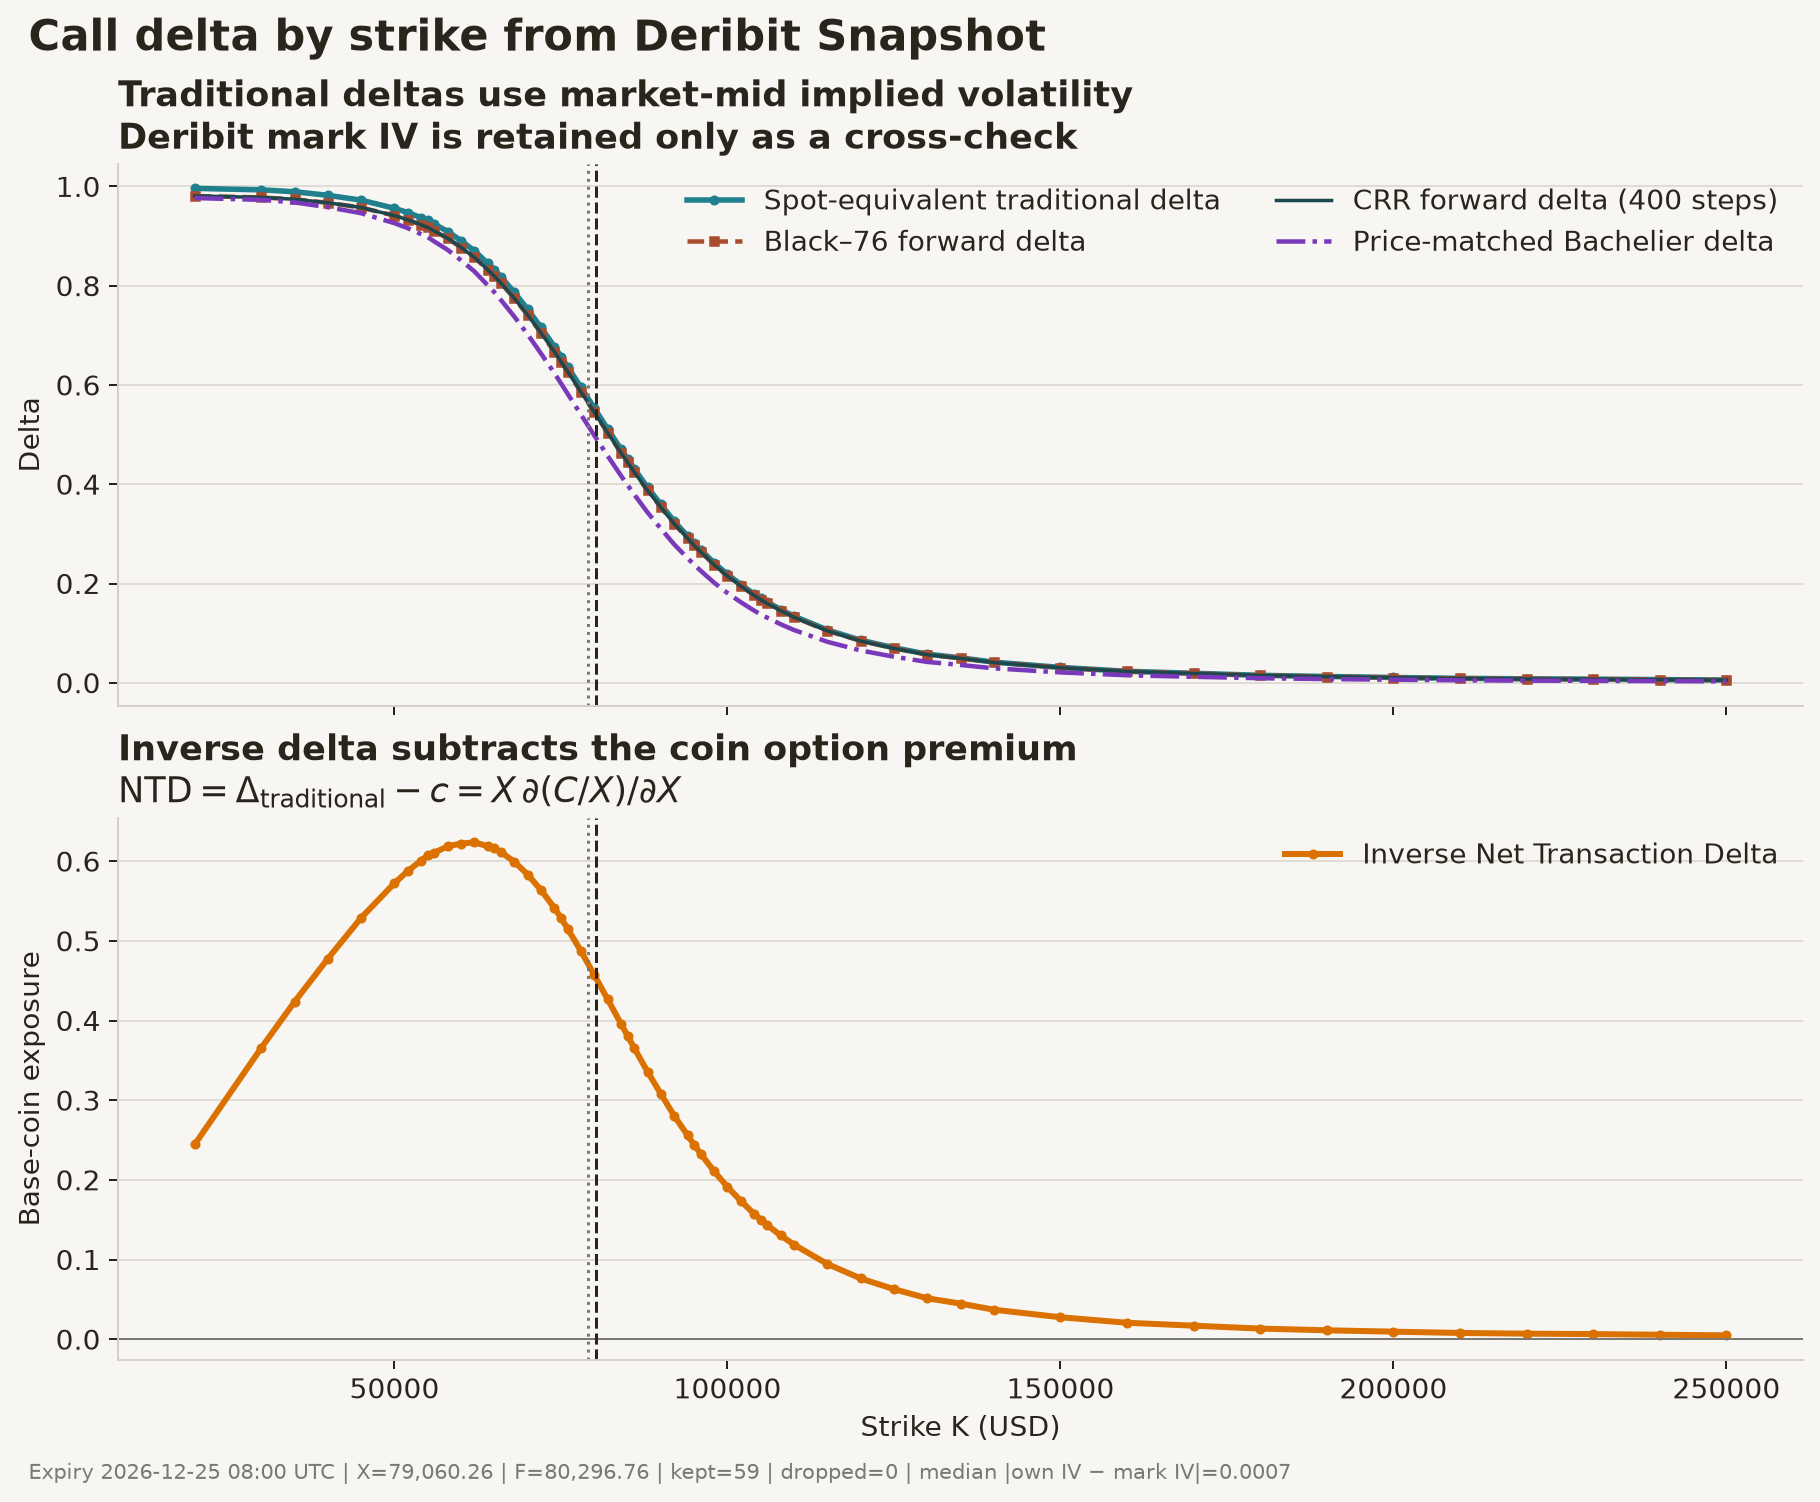
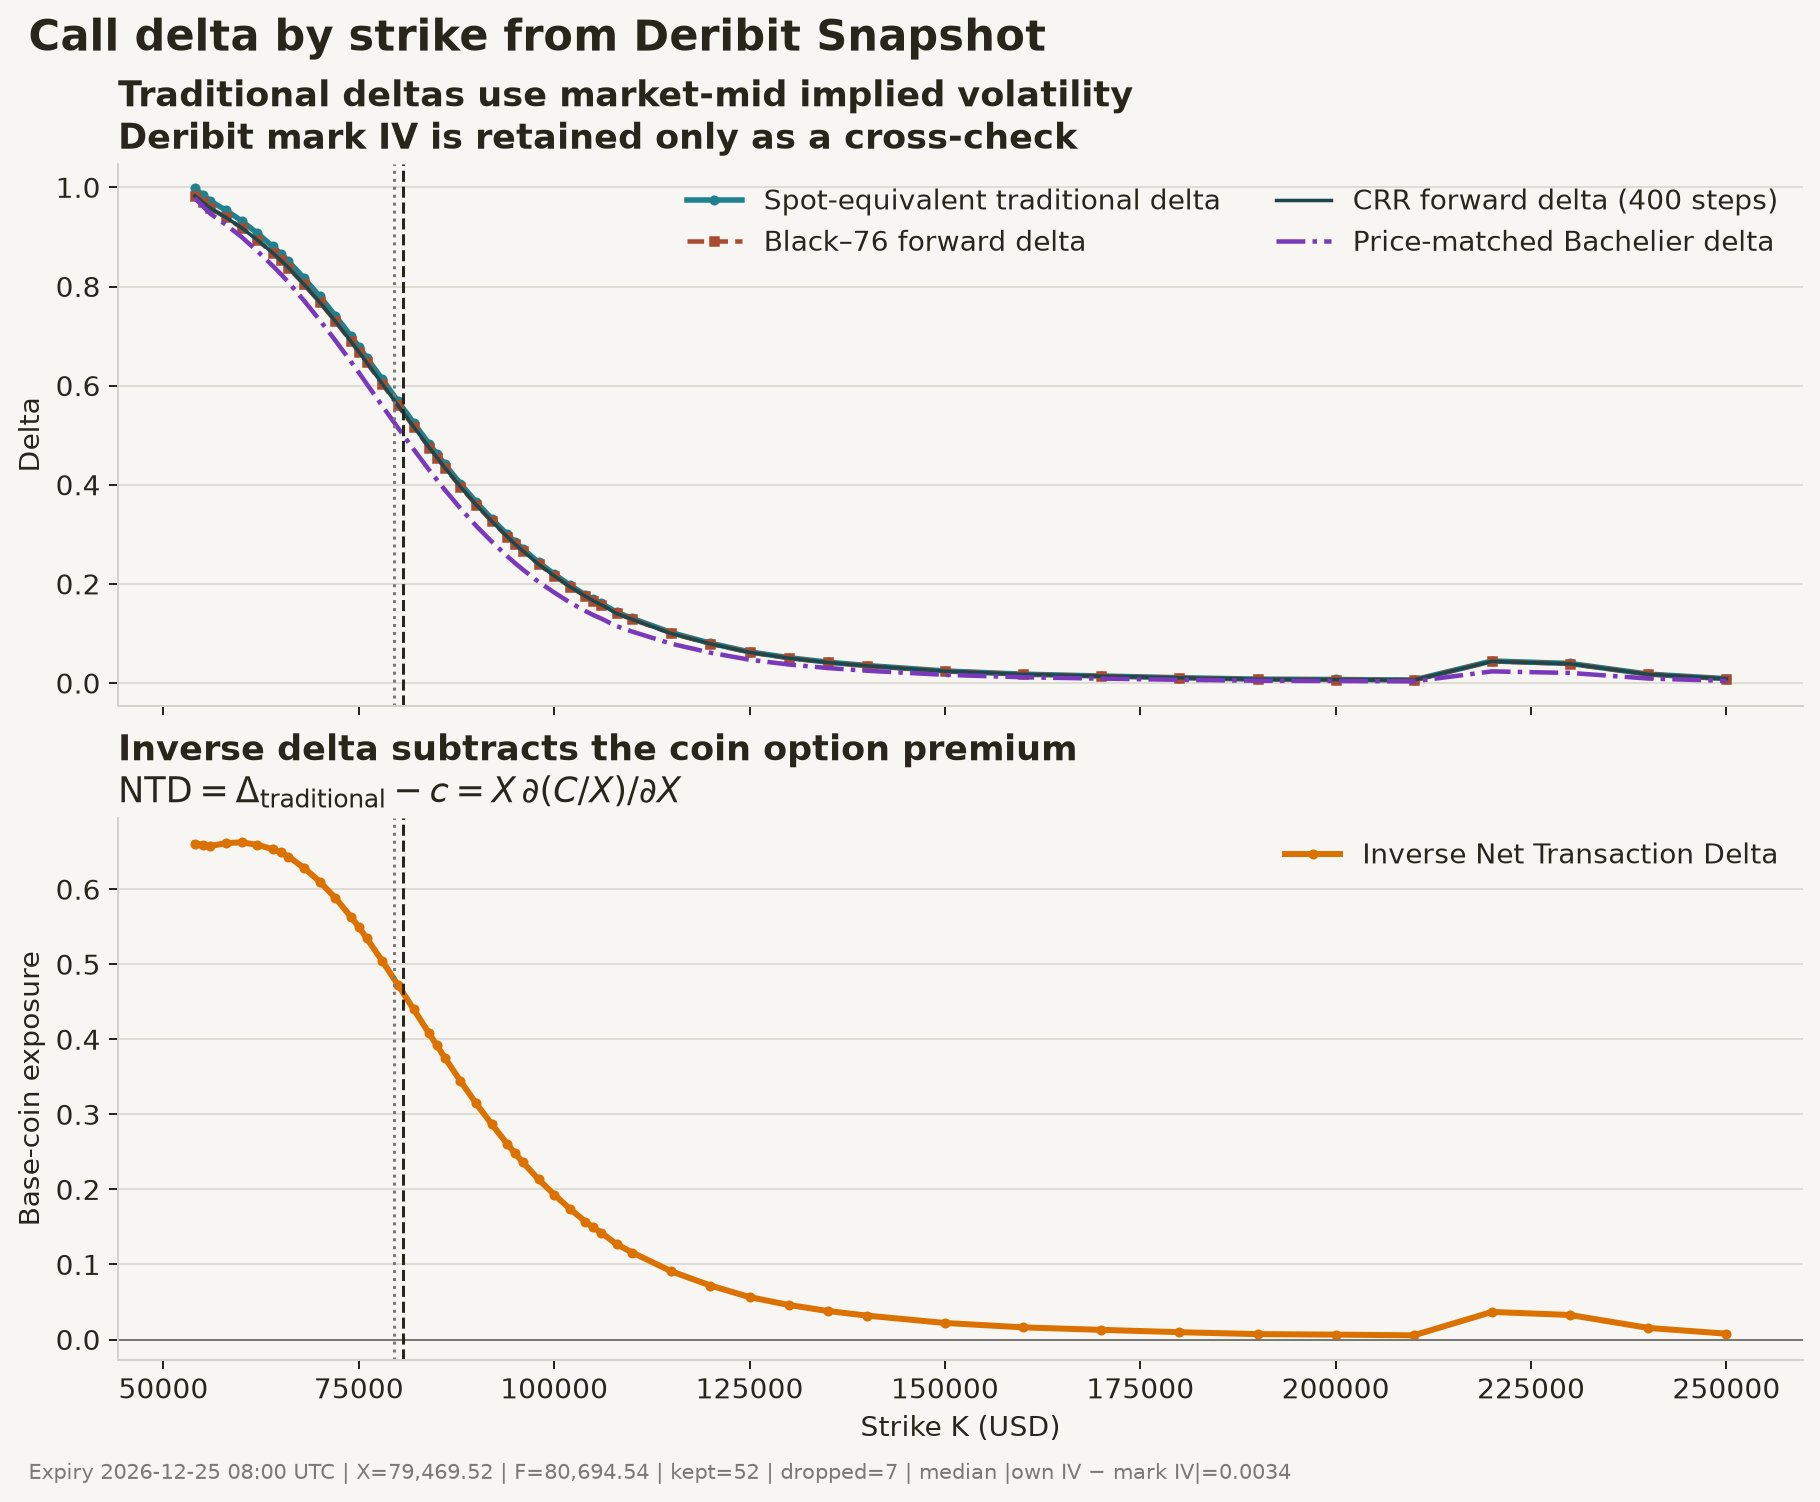
bug fix

diff --git a/deribit/hygiene.py b/deribit/hygiene.py
@@ -1,3 +1,4 @@
+import math
 from dataclasses import dataclass
 from enum import Enum
 
@@ -8,6 +9,8 @@ from .forwards import (OptionPair,ParityPoint,matched_size,inverse_forward_mid, 
 class IssueCode(str, Enum):
     MISSING_BID = "missing_bid"
     MISSING_ASK = "missing_ask"
+    NON_FINITE_BID = "non_finite_bid"
+    NON_FINITE_ASK = "non_finite_ask"
     ZERO_BID = "zero_bid"
     NON_POSITIVE_ASK = "non_positive_ask"
     CROSSED_BOOK = "crossed_book"
@@ -68,6 +71,7 @@ def evaluate_leg(
 ) -> list[QuoteIssue]:
     issues: list[QuoteIssue] = []
 
+    # BID CHECKS
     if quote.bid_coin is None:
         issues.append(
             QuoteIssue(
@@ -78,9 +82,22 @@ def evaluate_leg(
                 frozenset(
                     {
                         Use.DIAGNOSTIC_MID,
-                        Use.SYNTHETIC_SELL
-                        if leg == "call"
-                        else Use.SYNTHETIC_BUY,
+                        Use.SYNTHETIC_SELL if leg == "call" else Use.SYNTHETIC_BUY,
+                    }
+                ),
+            )
+        )
+    elif not math.isfinite(quote.bid_coin):
+        issues.append(
+            QuoteIssue(
+                IssueCode.NON_FINITE_BID,
+                quote.instrument_name,
+                leg,
+                "bid is non-finite (NaN or Inf)",
+                frozenset(
+                    {
+                        Use.DIAGNOSTIC_MID,
+                        Use.SYNTHETIC_SELL if leg == "call" else Use.SYNTHETIC_BUY,
                     }
                 ),
             )
@@ -95,14 +112,13 @@ def evaluate_leg(
                 frozenset(
                     {
                         Use.DIAGNOSTIC_MID,
-                        Use.SYNTHETIC_SELL
-                        if leg == "call"
-                        else Use.SYNTHETIC_BUY,
+                        Use.SYNTHETIC_SELL if leg == "call" else Use.SYNTHETIC_BUY,
                     }
                 ),
             )
         )
 
+    # ASK CHECKS
     if quote.ask_coin is None:
         issues.append(
             QuoteIssue(
@@ -113,9 +129,22 @@ def evaluate_leg(
                 frozenset(
                     {
                         Use.DIAGNOSTIC_MID,
-                        Use.SYNTHETIC_BUY
-                        if leg == "call"
-                        else Use.SYNTHETIC_SELL,
+                        Use.SYNTHETIC_BUY if leg == "call" else Use.SYNTHETIC_SELL,
+                    }
+                ),
+            )
+        )
+    elif not math.isfinite(quote.ask_coin):
+        issues.append(
+            QuoteIssue(
+                IssueCode.NON_FINITE_ASK,
+                quote.instrument_name,
+                leg,
+                "ask is non-finite (NaN or Inf)",
+                frozenset(
+                    {
+                        Use.DIAGNOSTIC_MID,
+                        Use.SYNTHETIC_BUY if leg == "call" else Use.SYNTHETIC_SELL,
                     }
                 ),
             )
@@ -130,48 +159,42 @@ def evaluate_leg(
                 frozenset(
                     {
                         Use.DIAGNOSTIC_MID,
-                        Use.SYNTHETIC_BUY
-                        if leg == "call"
-                        else Use.SYNTHETIC_SELL,
+                        Use.SYNTHETIC_BUY if leg == "call" else Use.SYNTHETIC_SELL,
                     }
                 ),
             )
         )
 
+    # CROSSED & SPREAD CHECKS
     if (
         quote.bid_coin is not None
         and quote.ask_coin is not None
-        and quote.bid_coin > quote.ask_coin
+        and math.isfinite(quote.bid_coin)
+        and math.isfinite(quote.ask_coin)
     ):
-        issues.append(
-            QuoteIssue(
-                IssueCode.CROSSED_BOOK,
-                quote.instrument_name,
-                leg,
-                "bid exceeds ask",
-                frozenset(Use),
-            )
-        )
-
-    if (
-        quote.bid_coin is not None
-        and quote.ask_coin is not None
-        and 0.0 < quote.bid_coin <= quote.ask_coin
-    ):
-        midpoint = 0.5 * (
-            quote.bid_coin + quote.ask_coin
-        )
-        spread = quote.ask_coin - quote.bid_coin
-        if spread > midpoint:
+        if quote.bid_coin > quote.ask_coin:
             issues.append(
                 QuoteIssue(
-                    IssueCode.SPREAD_WIDER_THAN_MID,
+                    IssueCode.CROSSED_BOOK,
                     quote.instrument_name,
                     leg,
-                    "spread is wider than option midpoint",
-                    frozenset({Use.DIAGNOSTIC_MID}),
+                    "bid exceeds ask",
+                    frozenset(Use),
                 )
             )
+        elif 0.0 < quote.bid_coin <= quote.ask_coin:
+            midpoint = 0.5 * (quote.bid_coin + quote.ask_coin)
+            spread = quote.ask_coin - quote.bid_coin
+            if spread > midpoint:
+                issues.append(
+                    QuoteIssue(
+                        IssueCode.SPREAD_WIDER_THAN_MID,
+                        quote.instrument_name,
+                        leg,
+                        "spread is wider than option midpoint",
+                        frozenset({Use.DIAGNOSTIC_MID}),
+                    )
+                )
 
     return issues
 

diff --git a/tests/test_forwards.py b/tests/test_forwards.py
@@ -1,6 +1,7 @@
 import pytest
-from deribit.chain import OptionQuote, FutureQuote, futures_from_snapshot
+from deribit.chain import OptionQuote, FutureQuote, futures_from_snapshot, option_chain_from_snapshot
 from deribit.forwards import *
+from deribit.hygiene import evaluate_and_partition_pairs
 
 pytestmark = pytest.mark.forwards
 
@@ -511,3 +512,65 @@ def test_both_directions_crossing_is_reported_as_invalid_data():
 
     assert comparison.top_of_book_cross_direction == "both_directions_cross"
     assert comparison.status == BasisStatus.BOTH_DIRECTIONS_CROSS.value
+
+
+def test_forward_derivation_without_api_forward_or_mark_iv():
+    snapshot = {
+        "index": {
+            "received_at_ns": 1700000000000000000,
+            "payload": {"index_price": 75000.0},
+        },
+        "instruments": {
+            "received_at_ns": 1700000000000000000,
+            "payload": [
+                {
+                    "kind": "option",
+                    "instrument_name": "BTC-25DEC26-75000-C",
+                    "option_type": "call",
+                    "strike": 75000,
+                    "expiration_timestamp": 1798185600000,
+                    "settlement_currency": "BTC",
+                    "contract_size": 1.0,
+                },
+                {
+                    "kind": "option",
+                    "instrument_name": "BTC-25DEC26-75000-P",
+                    "option_type": "put",
+                    "strike": 75000,
+                    "expiration_timestamp": 1798185600000,
+                    "settlement_currency": "BTC",
+                    "contract_size": 1.0,
+                },
+            ],
+        },
+        "options": {
+            "received_at_ns": 1700000000000000000,
+            "payload": [
+                {
+                    "instrument_name": "BTC-25DEC26-75000-C",
+                    "underlying_index": "BTC-25DEC26",
+                    "underlying_price": None,  # Missing API forward
+                    "mark_iv": None,           # Missing Mark IV
+                    "bid_price": 0.10,
+                    "ask_price": 0.10,
+                },
+                {
+                    "instrument_name": "BTC-25DEC26-75000-P",
+                    "underlying_index": "BTC-25DEC26",
+                    "underlying_price": None,  # Missing API forward
+                    "mark_iv": None,           # Missing Mark IV
+                    "bid_price": 0.0375,
+                    "ask_price": 0.0375,
+                },
+            ],
+        },
+    }
+
+    chain = option_chain_from_snapshot(snapshot)
+    assert len(chain) == 2
+    pairs, issues = pair_calls_and_puts(chain)
+    assert len(pairs) == 1
+    diag, buy, sell, evaluated = evaluate_and_partition_pairs(pairs)
+    assert len(diag) == 1
+    expiry_fw = aggregate_expiry_forward(diag, buy, sell)
+    assert expiry_fw.implied_forward == pytest.approx(80000.0)

diff --git a/deribit/forwards.py b/deribit/forwards.py
@@ -69,6 +69,8 @@ class BasisStatus(str, Enum):
     MISSING_FUTURE = "missing_future"
     INVALID_FUTURE_MARK = "invalid_future_mark"
     CROSSED_FUTURE = "crossed_future"
+    INVALID_FUTURE_BOOK = "invalid_future_book"
+    PRICE_CROSS = "price_cross"
     BOTH_DIRECTIONS_CROSS = "both_directions_cross"
 
 def pair_calls_and_puts(
@@ -191,16 +193,25 @@ def inverse_forward_mid(pair: OptionPair) -> float | None:
 
     if call_mid is None or put_mid is None:
         return None
-
+    if not math.isfinite(call_mid) or not math.isfinite(put_mid):
+        return None
+    
     denom = 1.0 - call_mid + put_mid
-    if denom <= 0.0:
+    if denom <= 0.0 or not math.isfinite(denom):
         raise ValueError("Invalid inverse parity denominator")
     return pair.strike/denom
 
 #Independent execution sides
 ### assert synthetic_sell_forward <= forward_mid <= synthetic_buy_forward
 def synthetic_buy_forward(pair: OptionPair) -> float | None:
-    if pair.call.ask_coin is None or pair.put.bid_coin is None or pair.call.ask_coin <= 0.0 or pair.put.bid_coin <= 0.0:
+    if (
+        pair.call.ask_coin is None
+        or pair.put.bid_coin is None
+        or not math.isfinite(pair.call.ask_coin)
+        or not math.isfinite(pair.put.bid_coin)
+        or pair.call.ask_coin <= 0.0
+        or pair.put.bid_coin <= 0.0
+    ):
         return None
     denom = (
         1.0 - pair.call.ask_coin + pair.put.bid_coin
@@ -210,7 +221,14 @@ def synthetic_buy_forward(pair: OptionPair) -> float | None:
     return pair.strike/denom
 
 def synthetic_sell_forward(pair: OptionPair) -> float | None:
-    if pair.call.bid_coin is None or pair.put.ask_coin is None or pair.call.bid_coin <= 0.0 or pair.put.ask_coin <= 0.0:
+    if (
+        pair.call.bid_coin is None
+        or pair.put.ask_coin is None
+        or not math.isfinite(pair.call.bid_coin)
+        or not math.isfinite(pair.put.ask_coin)
+        or pair.call.bid_coin <= 0.0
+        or pair.put.ask_coin <= 0.0
+    ):
         return None
     denom = (
         1.0 - pair.call.bid_coin + pair.put.ask_coin

diff --git a/benchmarks/delta_strike_plot.py b/benchmarks/delta_strike_plot.py
@@ -282,11 +282,11 @@ def plot_delta_rows(
             )
             # Mark Forward Price
             axis.axvline(
-                first.forward, 
+                first.api_forward, 
                 color="#28251D", 
                 ls="--", 
                 lw=1.2, 
-                label=f"Forward F (${first.forward:,.0f})"
+                label=f"Forward F (${first.api_forward:,.0f})"
             )
             axis.grid(axis="y", color="#D4D1CA", lw=0.8, alpha=0.7)
             axis.grid(axis="x", visible=False)
@@ -314,7 +314,7 @@ def plot_delta_rows(
             -0.02,
             (
                 f"Expiry {expiry} | X={first.index_price:,.2f} | "
-                f"F={first.forward:,.2f} | kept={len(rows)} | "
+                f"F={first.api_forward:,.2f} | kept={len(rows)} | "
                 f"dropped={dropped_count} | median |own IV − mark IV|="
                 f"{cross_check}"
             ),

diff --git a/deribit/chain.py b/deribit/chain.py
@@ -93,16 +93,15 @@ def option_chain_from_snapshot(snapshot: dict[str, Any],) -> list[OptionQuote]:
         forward = market.get("underlying_price")
         expiration = spec.get("expiration_timestamp")
         strike = spec.get("strike")
-        if forward is None or expiration is None or strike is None:
+        if expiration is None or strike is None:
             continue
-        if forward <= 0.0 or strike <= 0.0:
+        if strike <= 0.0:
             continue
 
         tau = (expiration - snapshot_ms) / MILLISECONDS_PER_YEAR
         if tau <= 0.0:
             continue
 
-        rate = math.log(forward / index_price) / tau
         mark_iv_percent = market.get("mark_iv")
 
         chain.append(
